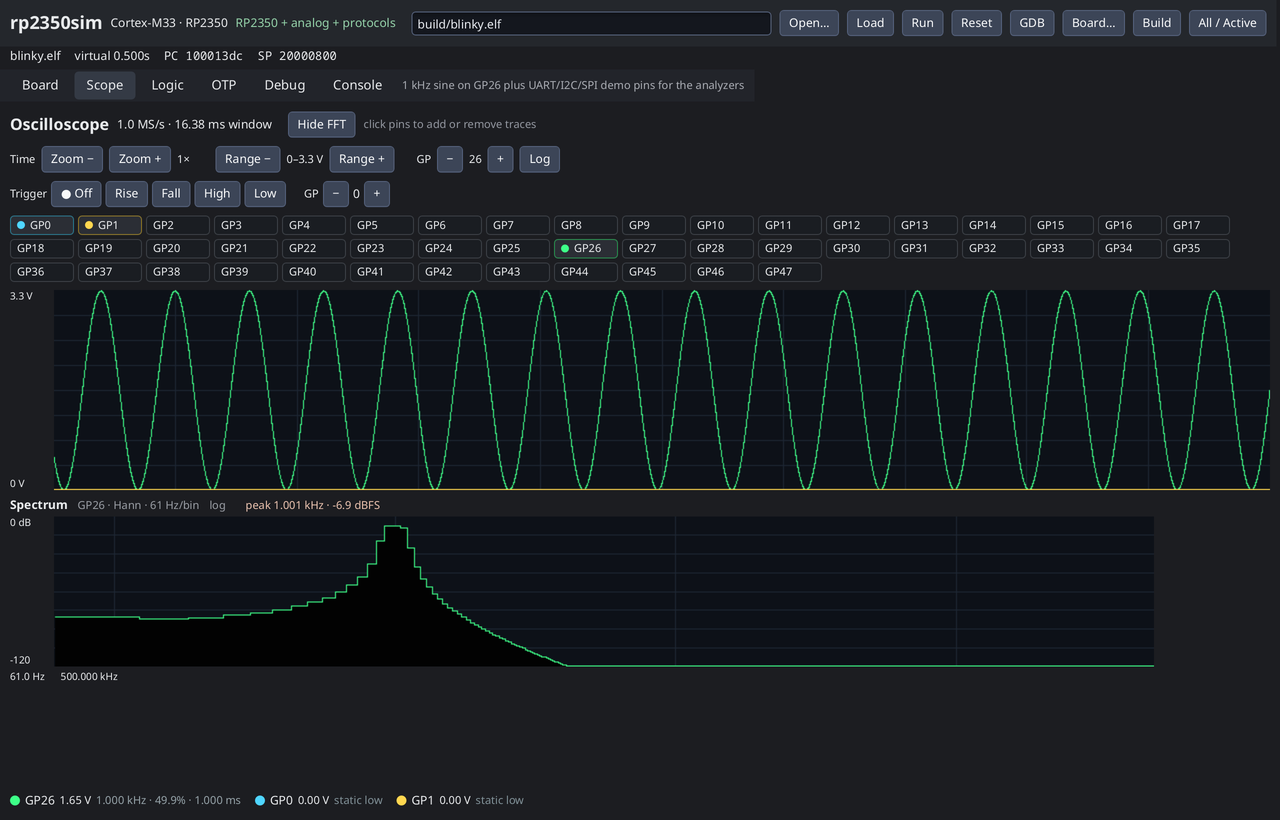
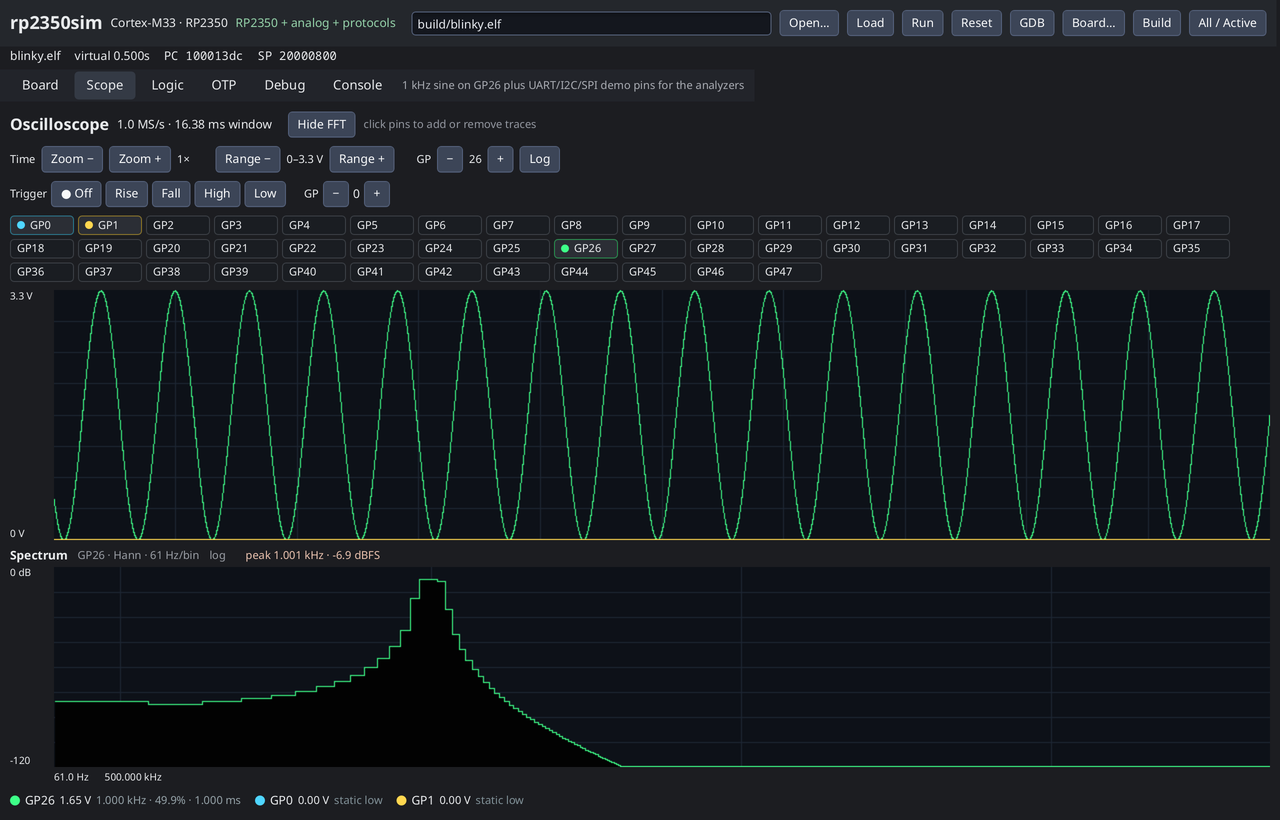
simui: size the scope FFT with the window
The spectrum container did not Expand across, so its image sized to the
content width instead of the scope width. It also used a fixed 150 px image
height, which left blank space when the window grew.

Both the time and spectrum rows now Grow to share the leftover height, and
each image takes GetContentHeight() from its own row (with a first-frame
fallback). The spectrum outer container Expands across the scope width, so
its plot, axis, grid and frequency labels line up with the time trace at any
window size. Regenerated the scope screenshots.

Changed region(s): [[0.0, 0.3659, 1.0, 0.9756], [0.0, 0.7927, 0.0312, 0.8232]]

diff --git a/cmd/simui/scopefft.go b/cmd/simui/scopefft.go
@@ -107,7 +107,6 @@ func (s *scopeSpectrum) compute(samples []devices.TraceSample, ch int, rate, ful
 
 // scopeSpectrumPanel draws the live FFT of one visible scope channel.
 func scopeSpectrumPanel(pins []int, samples []devices.TraceSample, interval uint64, vmax float32) {
-	const h = 150
 	var (
 		ch             int
 		bins           []float64
@@ -120,7 +119,7 @@ func scopeSpectrumPanel(pins []int, samples []devices.TraceSample, interval uint
 		bins, peakHz, peakDB, binHz, ok = scopeAnalyzer.compute(
 			samples, ch, 150e6/float64(interval), float64(vmax))
 	}
-	Container(Attrs(Grow(1), Gap(4)), func() {
+	Container(Attrs(Grow(1), Expand, Gap(4)), func() {
 		Container(Attrs(Row, CrossMid, Gap(10)), func() {
 			Label("Spectrum", FontSize(12), FontWeight(700))
 			if !ok {
@@ -138,8 +137,12 @@ func scopeSpectrumPanel(pins []int, samples []devices.TraceSample, interval uint
 			Label(fmt.Sprintf("peak %s · %.1f dBFS", formatFreq(peakHz), peakDB),
 				FontSize(11), FontWeight(600), TextColor(20, 60, 80, 1))
 		})
-		Container(Attrs(Row, Gap(6), Expand), func() {
-			Container(Attrs(FixWidth(38), FixHeight(h)), func() {
+		Container(Attrs(Row, Gap(6), Expand, Grow(1)), func() {
+			h := int(GetContentHeight())
+			if h < 40 {
+				h = 150
+			}
+			Container(Attrs(FixWidth(38), FixHeight(float32(h))), func() {
 				Label("0 dB", FontSize(10))
 				Filler(1)
 				Label("-120", FontSize(10))
@@ -151,10 +154,10 @@ func scopeSpectrumPanel(pins []int, samples []devices.TraceSample, interval uint
 				}
 				img := scopeSpectrumImage(bins, int(w), h, -120, binHz, scopeFFTLog, paletteAt(ch))
 				id := UseImage("scopefft", img)
-				ImageViewAt(id, Vec2{w, h})
+				ImageViewAt(id, Vec2{w, float32(h)})
 			})
 		})
-		Container(Attrs(Row, Gap(8)), func() {
+		Container(Attrs(Row, Gap(8), Pad4(0, 0, 0, 44)), func() {
 			if !ok {
 				return
 			}

diff --git a/cmd/simui/main.go b/cmd/simui/main.go
@@ -1916,10 +1916,6 @@ func scopePanel() {
 			marker = trigIdx - start
 		}
 	}
-	plotH := 420
-	if scopeFFT {
-		plotH = 200
-	}
 	if len(pins) > 0 {
 		scopeFFTChannel = min(max(scopeFFTChannel, 0), len(pins)-1)
 	}
@@ -2016,8 +2012,12 @@ func scopePanel() {
 			}
 		})
 		scopePinPicker()
-		Container(Attrs(Row, Gap(6), Expand), func() {
-			Container(Attrs(FixWidth(38), FixHeight(float32(plotH))), func() {
+		Container(Attrs(Row, Gap(6), Expand, Grow(1)), func() {
+			h := int(GetContentHeight())
+			if h < 40 {
+				h = 200 // first frame, before layout has resolved
+			}
+			Container(Attrs(FixWidth(38), FixHeight(float32(h))), func() {
 				Label(fmt.Sprintf("%s V", strconv.FormatFloat(float64(vmax), 'g', 3, 32)), FontSize(10))
 				Filler(1)
 				Label("0 V", FontSize(10))
@@ -2027,9 +2027,9 @@ func scopePanel() {
 				if w < 200 {
 					w = 1100 // first frame, before layout has resolved
 				}
-				img := scopeImage(pins, visible, int(w), plotH, vmax, marker)
+				img := scopeImage(pins, visible, int(w), h, vmax, marker)
 				id := UseImage("scope", img)
-				ImageViewAt(id, Vec2{w, float32(plotH)})
+				ImageViewAt(id, Vec2{w, float32(h)})
 			})
 		})
 		if scopeFFT {
